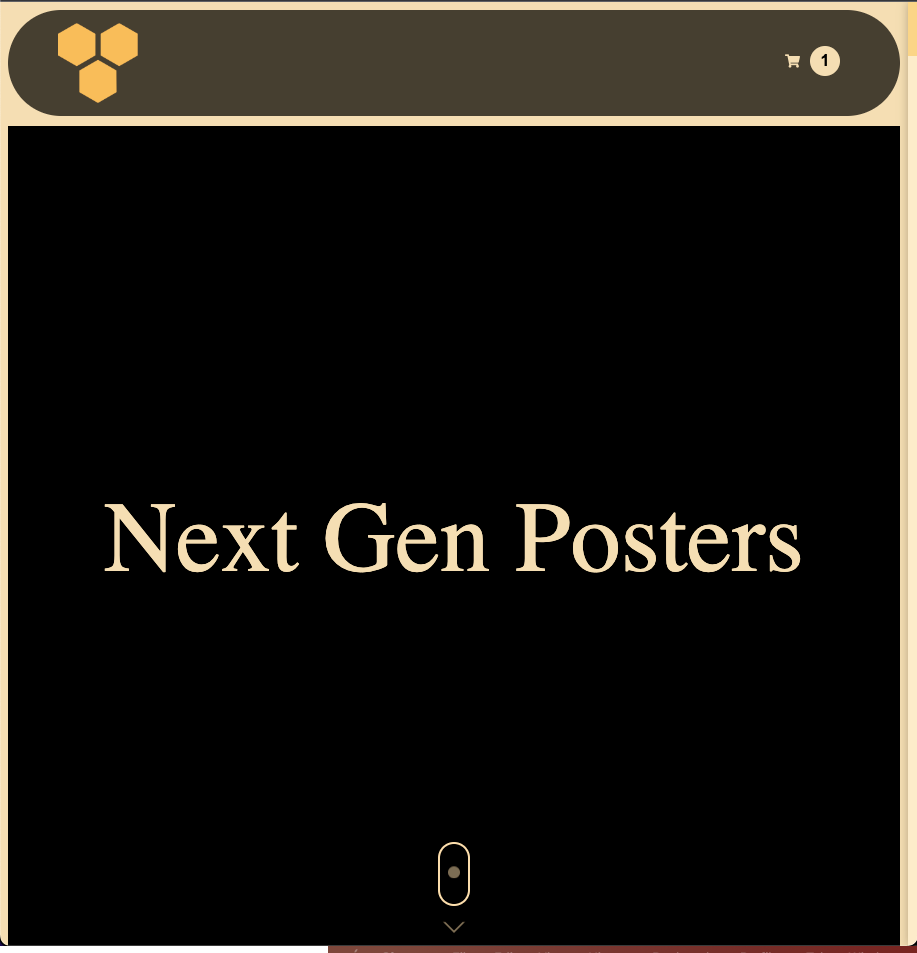
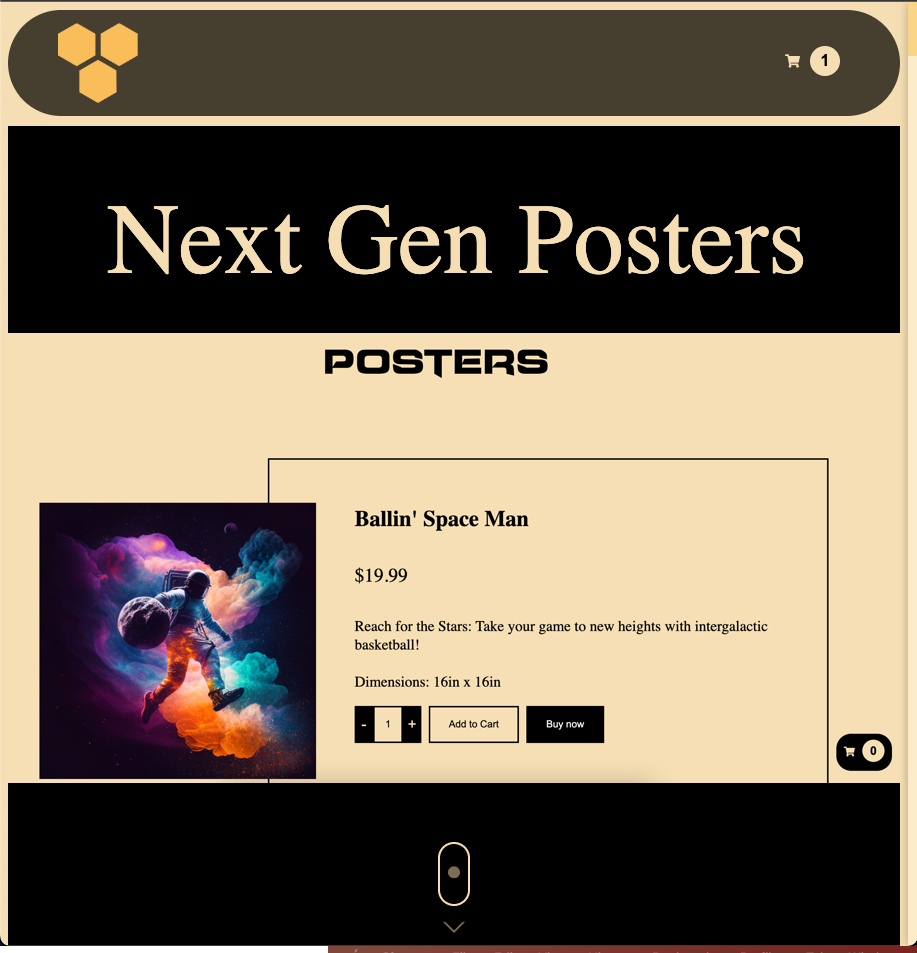
updates

diff --git a/index.html b/index.html
@@ -77,7 +77,7 @@
         <h2 id="projects-section-title">Featured Projects</h2>
         <div class="project-cards-container">
             <div class="project-card">
-                <img src="" alt="">
+                <img src="images/NGP-bg.png" alt="Next Gen Posters">
                 <div class="project-details">
                     <label class="project-title">Next Gen Posters</label>
                     <div class="tech-used-container">

diff --git a/styles.css b/styles.css
@@ -110,6 +110,11 @@ body {
     aspect-ratio: 1;
     position: relative;
     min-width: 320px;
+    overflow: hidden;
+}
+
+.project-card img {
+    width: 100%;
 }
 
 .project-details {
